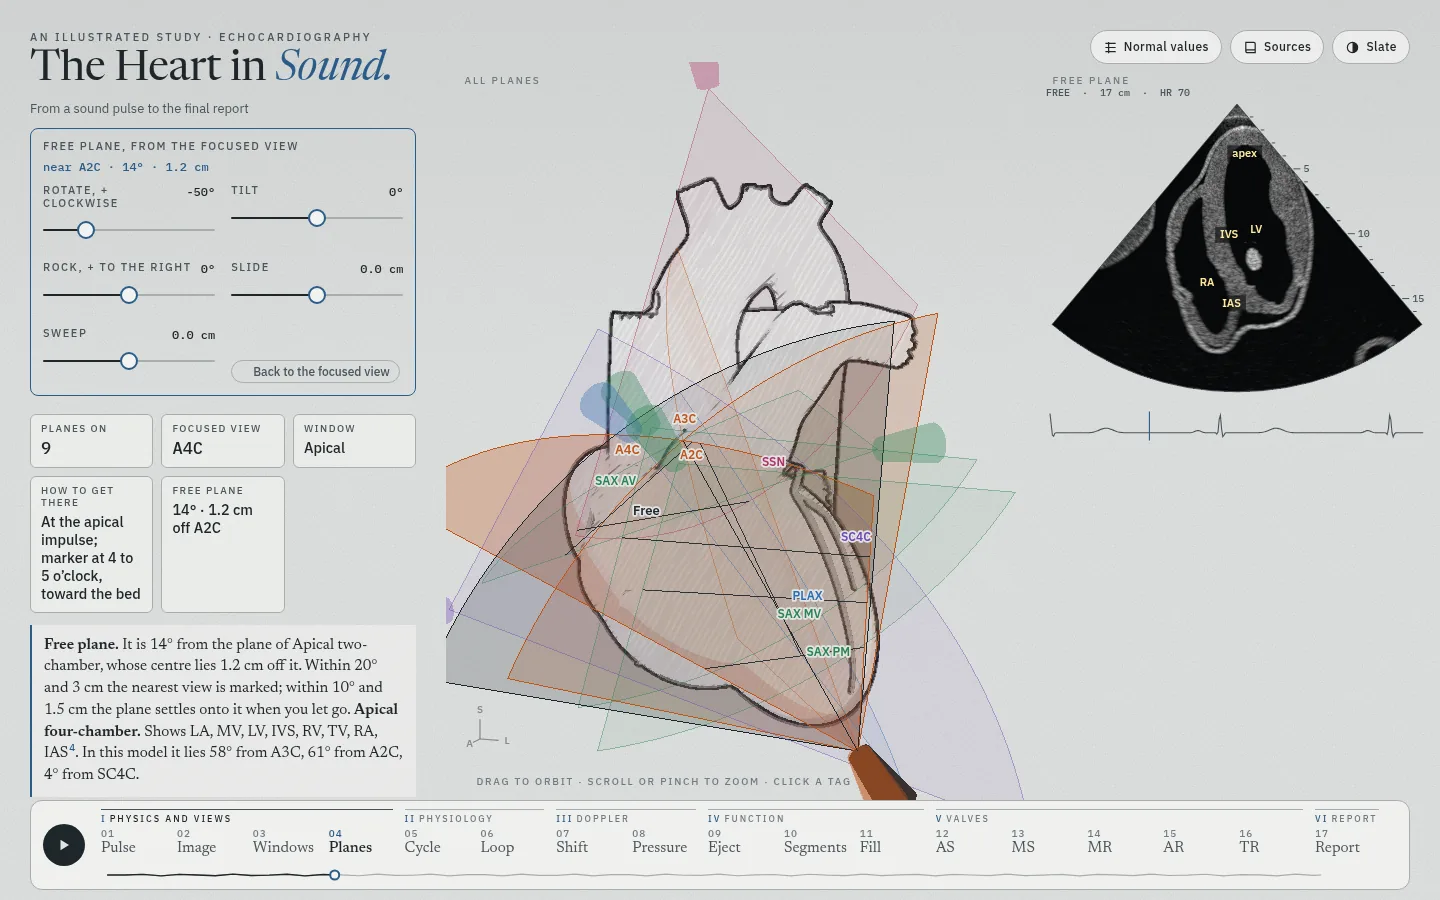
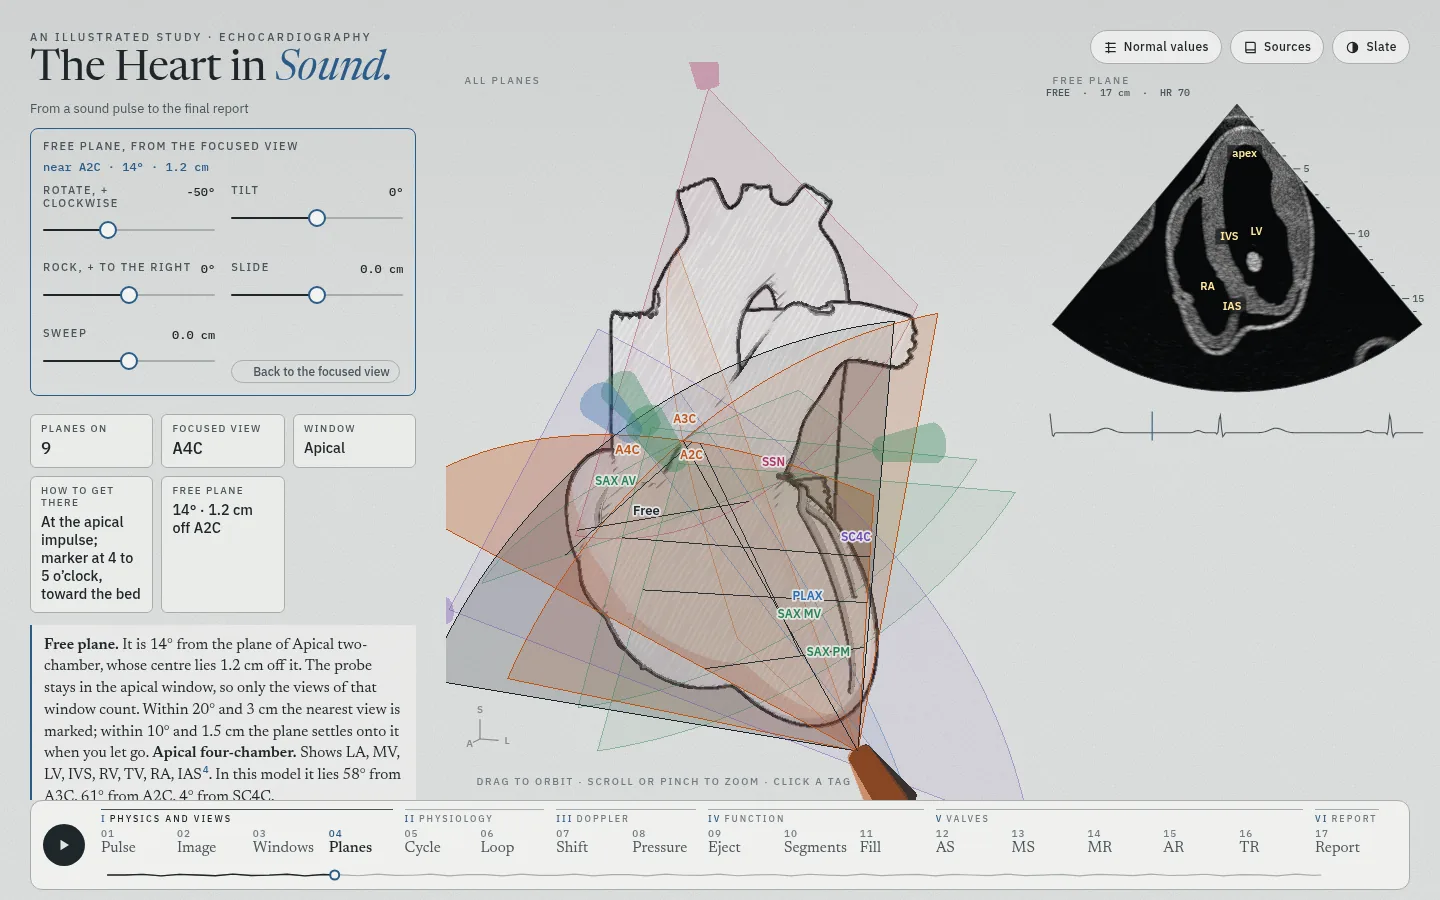
Keep the free plane in its window and count the marker side
The free plane settled onto any standard view whose plane matched, from
any window and with either marker side. From the apex, a 30° turn of the
four-chamber plane settled onto the parasternal long axis and moved the
probe to the chest wall; the three-chamber view came 60° clockwise, with
the image mirrored on the way.

Now only the views of the focused view's window count, and the angle
between the planes is signed. The textbook turns settle: 60° and 120°
counterclockwise from the four-chamber view, 90° clockwise from the long
axis. The same plane turned 180° reads as mirrored. Rotate spans ±180°.

Claude-Session: https://claude.ai/code/session_01NtQNVy8YQ5NUAw3xwF3MnN

diff --git a/src/ch/planes.js b/src/ch/planes.js
@@ -210,31 +210,39 @@ function freePose(s = st) {
   return { O, d: d.normalize(), r: r.normalize(), n: n.normalize() };
 }
 const moved = (s = st) => FREE_KEYS.some((k) => Math.abs(s[k] || 0) > 1e-6);
+// the probe's window; the long- and short-axis views share the parasternal one
+const SITE = { plax: 'parasternal', psax: 'parasternal', apical: 'apical', sub: 'subcostal', ssn: 'suprasternal' };
+const site = (k) => SITE[VIEWS[k].win];
 
 /**
- * The standard view nearest to plane g: the angle between the planes, and how far the view's
- * imaged centre lies off g (it must also lie within the sector's reach in g). Where two views
- * share a plane, the closer beam direction decides.
+ * The standard view nearest to plane g, among the views of the window that the probe is in
+ * (the focused view's): the angle between the planes, and how far the view's imaged centre
+ * lies off g (it must also lie within the sector's reach in g). The angle counts the side the
+ * marker is on: the same plane turned 180° shows the heart mirrored and is not the view
+ * (`flip` names that view). A plane from another window can lie close to g (the apical and
+ * subcostal four-chamber planes do) but is another view. Where two views share a plane, the
+ * closer beam direction decides.
  */
-function nearest(g) {
-  if (!g) return null;
-  let best = null;
+function nearest(g, from = st.pfocus) {
+  if (!g || !VIEWS[from]) return null;
+  let best = null, flip = null;
   for (const k of PLANE_VIEWS) {
     const G = geoms[k];
-    if (!G) continue;
+    if (!G || site(k) !== site(from)) continue;
     const depth = VIEWS[k].depth;
-    const deg = (Math.acos(Math.min(1, Math.abs(g.n.dot(G.n)))) * 180) / Math.PI;
+    const deg = (Math.acos(Math.max(-1, Math.min(1, g.n.dot(G.n)))) * 180) / Math.PI;
     const q = G.O.clone().addScaledVector(G.d, depth / 2).sub(g.O);
     const cm = Math.abs(q.dot(g.n));
-    const reach = Math.hypot(q.dot(g.r), q.dot(g.d) - depth / 2);
+    const inside = Math.hypot(q.dot(g.r), q.dot(g.d) - depth / 2) <= depth / 2;
     const beam = (Math.acos(Math.max(-1, Math.min(1, g.d.dot(G.d)))) * 180) / Math.PI;
-    const score = deg / NEAR.deg + cm / NEAR.cm + beam / 180 + (reach > depth / 2 ? 2 : 0);
-    if (!best || score < best.score) best = { k, deg, cm, score, reach, depth };
+    if (inside && 180 - deg < NEAR.deg && cm < NEAR.cm && (!flip || 180 - deg < flip.deg)) flip = { k, deg: 180 - deg };
+    const score = deg / NEAR.deg + cm / NEAR.cm + beam / 180 + (inside ? 0 : 2);
+    if (!best || score < best.score) best = { k, deg, cm, score, inside };
   }
   if (best) {
-    const inside = best.reach <= best.depth / 2;
-    best.near = inside && best.deg < NEAR.deg && best.cm < NEAR.cm;
-    best.on = inside && best.deg < ON.deg && best.cm < ON.cm;
+    best.near = best.inside && best.deg < NEAR.deg && best.cm < NEAR.cm;
+    best.on = best.near && best.deg < ON.deg && best.cm < ON.cm;
+    best.flip = !best.near && flip ? flip.k : null;
   }
   return best;
 }
@@ -278,7 +286,7 @@ function syncFree(animate = false) {
     const out = document.getElementById('pfree-state');
     if (out) {
       const nb = nearInfo;
-      out.textContent = !nb ? '' : nb.on && nb.deg < 0.05 && nb.cm < 0.01 ? `on ${CODE[nb.k]}` : nb.on ? `${CODE[nb.k]}: let go to settle on it` : nb.near ? `near ${CODE[nb.k]} · ${Math.round(nb.deg)}° · ${nb.cm.toFixed(1)} cm` : 'no standard view near';
+      out.textContent = !nb ? '' : nb.on && nb.deg < 0.05 && nb.cm < 0.01 ? `on ${CODE[nb.k]}` : nb.on ? `${CODE[nb.k]}: let go to settle on it` : nb.near ? `near ${CODE[nb.k]} · ${Math.round(nb.deg)}° · ${nb.cm.toFixed(1)} cm` : nb.flip ? `${CODE[nb.flip]} plane, marker reversed` : 'no standard view near';
     }
   }
   drawFree(g);
@@ -710,12 +718,12 @@ export default {
       { k: 'Window', v: k ? WNAME[VIEWS[k].win] : '–', text: true },
     ];
     if (k) readouts.push({ k: 'How to get there', v: MOVE[k], text: true });
-    const nb = s.pfree && geoms && T ? nearest(freePose(s)) : null;
-    if (nb) readouts.push({ k: 'Free plane', v: nb.on && !moved(s) ? `on ${CODE[nb.k]}` : `${Math.round(nb.deg)}° · ${nb.cm.toFixed(1)} cm off ${CODE[nb.k]}`, text: true });
+    const nb = s.pfree && geoms && T ? nearest(freePose(s), s.pfocus) : null;
+    if (nb) readouts.push({ k: 'Free plane', v: nb.on && !moved(s) ? `on ${CODE[nb.k]}` : nb.flip ? `${CODE[nb.flip]} plane, marker reversed` : `${Math.round(nb.deg)}° · ${nb.cm.toFixed(1)} cm off ${CODE[nb.k]}`, text: true });
     let live = '';
     if (nb) {
-      live += `<b>Free plane.</b> ${nb.on && !moved(s) ? `It lies on ${VIEWS[nb.k].name}.` : nb.near ? `It is ${Math.round(nb.deg)}° from the plane of ${VIEWS[nb.k].name}, whose centre lies ${nb.cm.toFixed(1)} cm off it.` : 'No standard view is near.'} `;
-      live += `Within ${NEAR.deg}° and ${NEAR.cm} cm the nearest view is marked; within ${ON.deg}° and ${ON.cm} cm the plane settles onto it when you let go. `;
+      live += `<b>Free plane.</b> ${nb.on && !moved(s) ? `It lies on ${VIEWS[nb.k].name}.` : nb.near ? `It is ${Math.round(nb.deg)}° from the plane of ${VIEWS[nb.k].name}, whose centre lies ${nb.cm.toFixed(1)} cm off it.` : nb.flip ? `It is the plane of ${CODE[nb.flip]} with the marker on the other side, so the image is mirrored. Turn the probe 180° to get the view.` : 'No standard view is near.'} `;
+      live += `The probe stays in the ${site(s.pfocus)} window, so only the views of that window count. Within ${NEAR.deg}° and ${NEAR.cm} cm the nearest view is marked; within ${ON.deg}° and ${ON.cm} cm the plane settles onto it when you let go. `;
     }
     if (k) {
       live += `<b>${VIEWS[k].name}.</b> Shows ${HAS[k].map((id) => SNAME[id].short).join(', ')}${cite('mitchell2019')}. `;

diff --git a/index.html b/index.html
@@ -310,7 +310,7 @@
           <div class="row2">
             <div class="control">
               <label for="prot">Rotate, + clockwise <output data-for="prot"></output></label>
-              <input type="range" id="prot" data-key="prot" min="-90" max="90" step="1">
+              <input type="range" id="prot" data-key="prot" min="-180" max="180" step="1">
             </div>
             <div class="control">
               <label for="ptilt">Tilt <output data-for="ptilt"></output></label>
@@ -348,7 +348,8 @@
         <li><b>Small tilts make new views.</b> From the parasternal long axis, tilt toward the right hip for RV inflow, and anteriorly for RV outflow. From the four-chamber view, tilt anteriorly to add the LVOT and the aortic valve<span class="cite" data-ref="mitchell2019"></span>.</li>
         </ul>
         <h3>Free plane</h3>
-        <p>Turn on <b>Free plane</b> to move a plane away from the focused view the way a probe moves: rotate it about the beam, tilt the beam across the plane, rock it within the plane, slide the probe along the plane and sweep it across. The echo pane shows what that plane cuts; <b>Square to the plane</b> turns the 3D heart to face it. The nearest standard view is judged by the angle between the planes and how far its centre lies off the free plane. Within 20° and 3 cm it is marked; within 10° and 1.5 cm the plane settles onto it when you let go of the control.</p>
+        <p>Turn on <b>Free plane</b> to move a plane away from the focused view the way a probe moves: rotate it about the beam, tilt the beam across the plane, rock it within the plane, slide the probe along the plane and sweep it across. The echo pane shows what that plane cuts; <b>Square to the plane</b> turns the 3D heart to face it. In this model, a turn of 60° counterclockwise from the four-chamber view gives the two-chamber view, and a turn of 120° gives the three-chamber view. A turn of 90° clockwise from the parasternal long axis gives the short axis at the mitral valve.</p>
+        <p>The probe stays in the window of the focused view, so the free plane is compared only with the standard views of that window. A plane from another window can cut the heart almost the same way (the apical and subcostal four-chamber planes do), but it is a different view. The comparison uses the angle between the planes, with the marker on the same side, and how far the view's centre lies off the free plane. The same plane with the marker on the other side gives a mirrored image, and the panel says so. Within 20° and 3 cm the nearest view is marked; within 10° and 1.5 cm the plane settles onto it when you let go of the control.</p>
         <h3>What each view shows</h3>
         <p>The table lists the structures that ASE names for each view on show<span class="cite" data-ref="mitchell2019"></span>. Choose a structure to light the views that contain it. Zoomed and LV-focused views use the plane of their parent view, so the figure shows the parent plane only.</p>
         <h3>Why it matters</h3>

diff --git a/README.md b/README.md
@@ -46,7 +46,7 @@ Chapter 03 covers the ASE comprehensive transthoracic views (Mitchell 2019, Tabl
 
 Chapter 04 shows the planes together. The apical views share the LV long axis; the model places the two-chamber plane about 60° from the four- and three-chamber planes, as the ASE rotation describes. The short-axis levels form a parallel stack. The structure table lists what ASE names for each view.
 
-**Free plane.** Five controls move a plane away from the focused view as a probe moves: rotate about the beam, tilt across the plane, rock within it, slide along it and sweep across it. The echo pane shows what the plane cuts, and *Square to the plane* turns the heart to face it. The nearest standard view is judged by the angle between the planes and how far that view's centre lies off the free plane: within 20° and 3 cm it is marked, and within 10° and 1.5 cm the plane settles onto it when the control is let go. Rotating the four-chamber plane 60° counterclockwise reaches the two-chamber view this way.
+**Free plane.** Five controls move a plane away from the focused view as a probe moves: rotate about the beam, tilt across the plane, rock within it, slide along it and sweep across it. The echo pane shows what the plane cuts, and *Square to the plane* turns the heart to face it. The probe stays in the focused view's window, so only the standard views of that window count; the apical four-chamber plane lies 4° from the subcostal one in this model, but the two are different views. The nearest view is judged by the angle between the planes, with the marker on the same side, and how far that view's centre lies off the free plane: within 20° and 3 cm it is marked, and within 10° and 1.5 cm the plane settles onto it when the control is let go. The same plane turned 180° is flagged as mirrored, not taken as the view. The textbook turns work: the four-chamber plane rotated 60° counterclockwise settles on the two-chamber view and 120° on the three-chamber view, and the long axis rotated 90° clockwise on the short axis at the mitral valve.
 
 ![Chapter 04, a free plane rotated 50° counterclockwise from the four-chamber view, marked as near the two-chamber view](docs/screenshots/free.webp)
 
@@ -119,7 +119,7 @@ Keys: ← → change chapter, space plays the tour, 1–5 and [ ] step the views
 - `node --check` on every module.
 - Screenshots of all 17 chapters at 1440 × 900 and 390 × 844, and of the main chapters in the dark theme; no console errors.
 - Echo images at 1× and 2× device scale in every chapter that has one, including the zoomed and subcostal views, and the new views of chapter 03. Frame rate of the severity pages on the test machine (headless Chromium, software rendering, 1×): 56–61 fps with the cine running and 35–53 fps with Play, against 56–61 and 38–55 before this change. The 3D chapters run at 4–5 fps there before and after (software WebGL).
-- Plane changes rendered frame by frame (four- to two-chamber, long to short axis); the free plane rotated from the four-chamber view settles onto the two-chamber view at −60°; cross-sections of the parasternal, apical and subcostal views at desktop and phone width and in the dark theme.
+- Plane changes rendered frame by frame (four- to two-chamber, long to short axis); the free plane rotated from the four-chamber view settles onto the two-chamber view at −60° and the three-chamber view at −120°, and from the long axis onto the short axis at +90°; the same planes at +60° and −90° read as mirrored, and a plane from another window never settles (the apical and subcostal four-chamber planes lie 4° apart); cross-sections of the parasternal, apical and subcostal views at desktop and phone width and in the dark theme.
 - Every chapter's tour steps run, and the Play button advances chapters. On the severity pages, Play moves the slider and any control stops it.
 - Each severity model swept across its slider: the grade bands come out in order; in MR, AR and TR the EROA, volume, fraction and vena contracta cross their severe cut-offs at the same point.
 - Citation audit: every cited id resolves to a reference, and every id used in live text also appears in the static text, so it gets a number.
